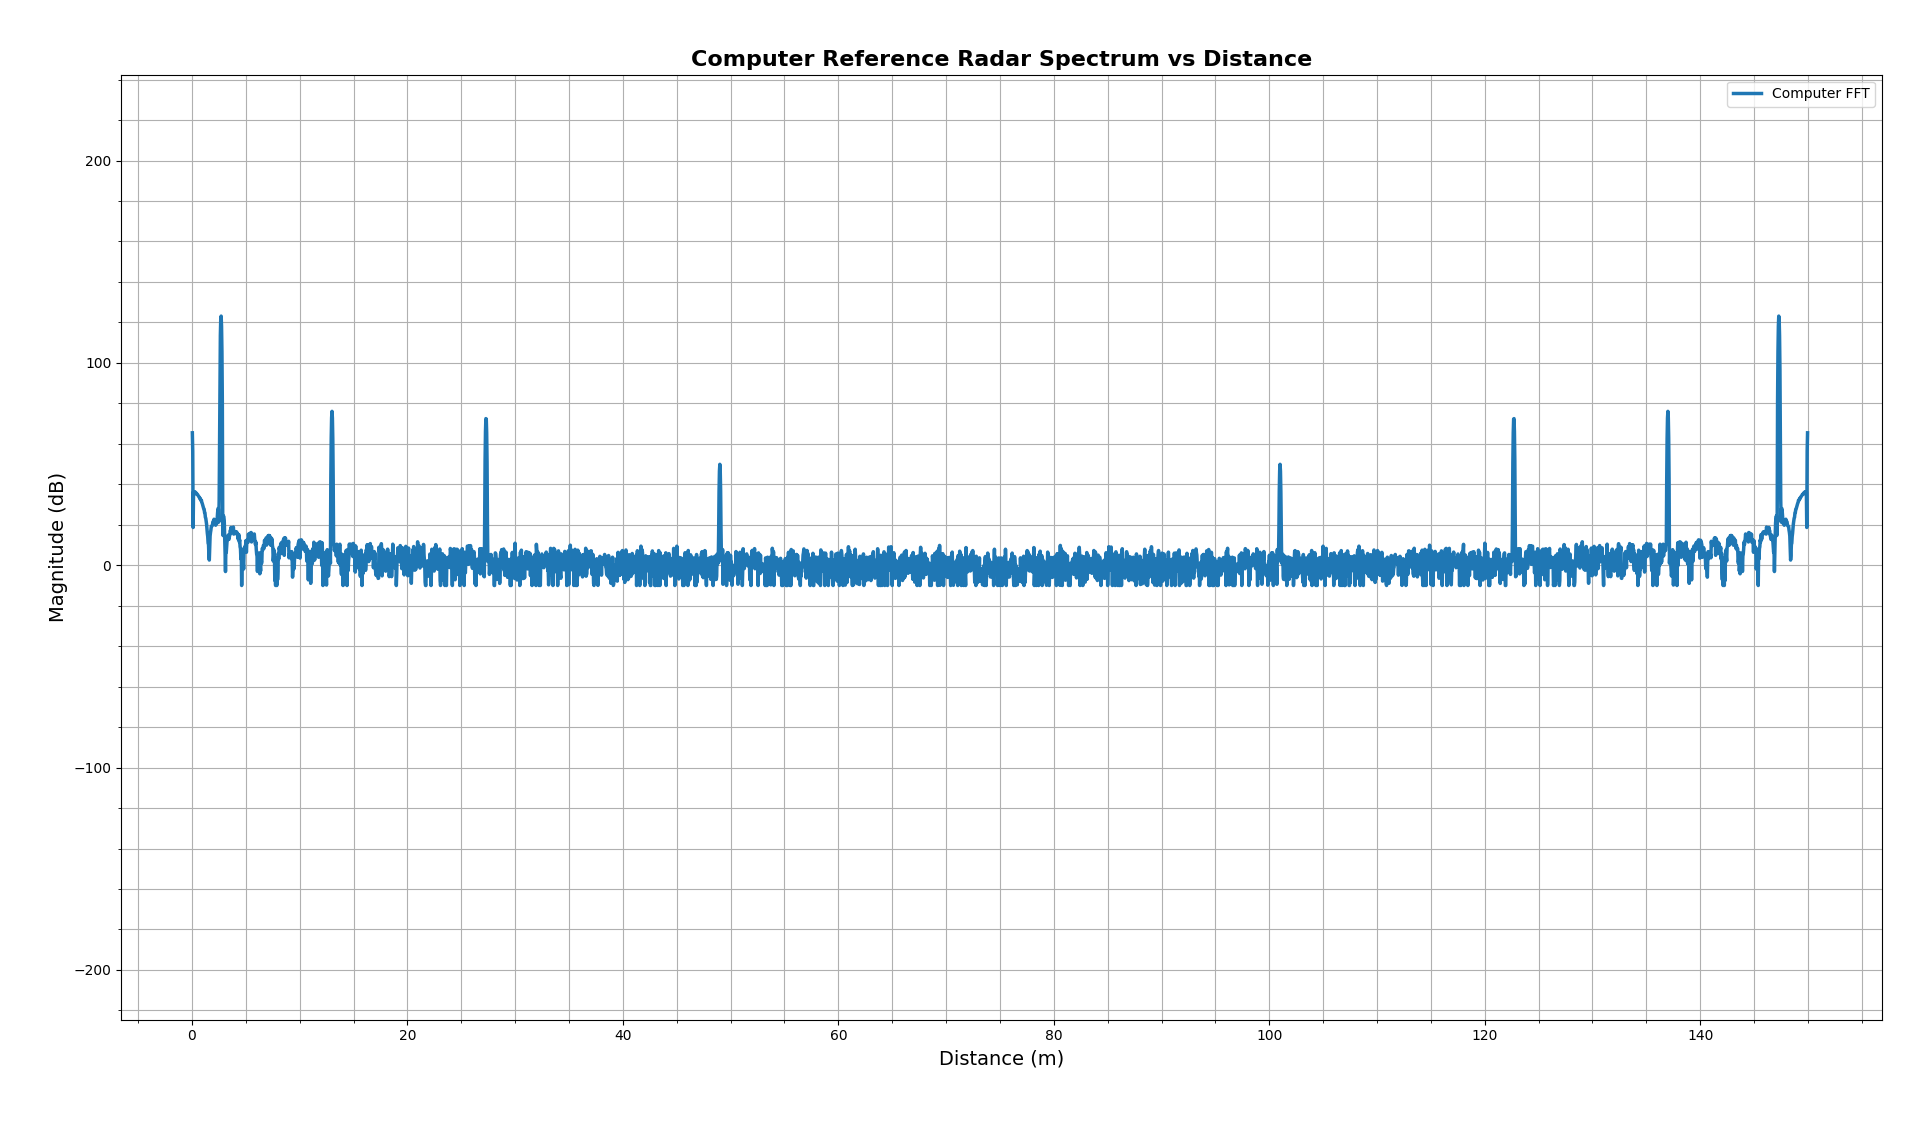
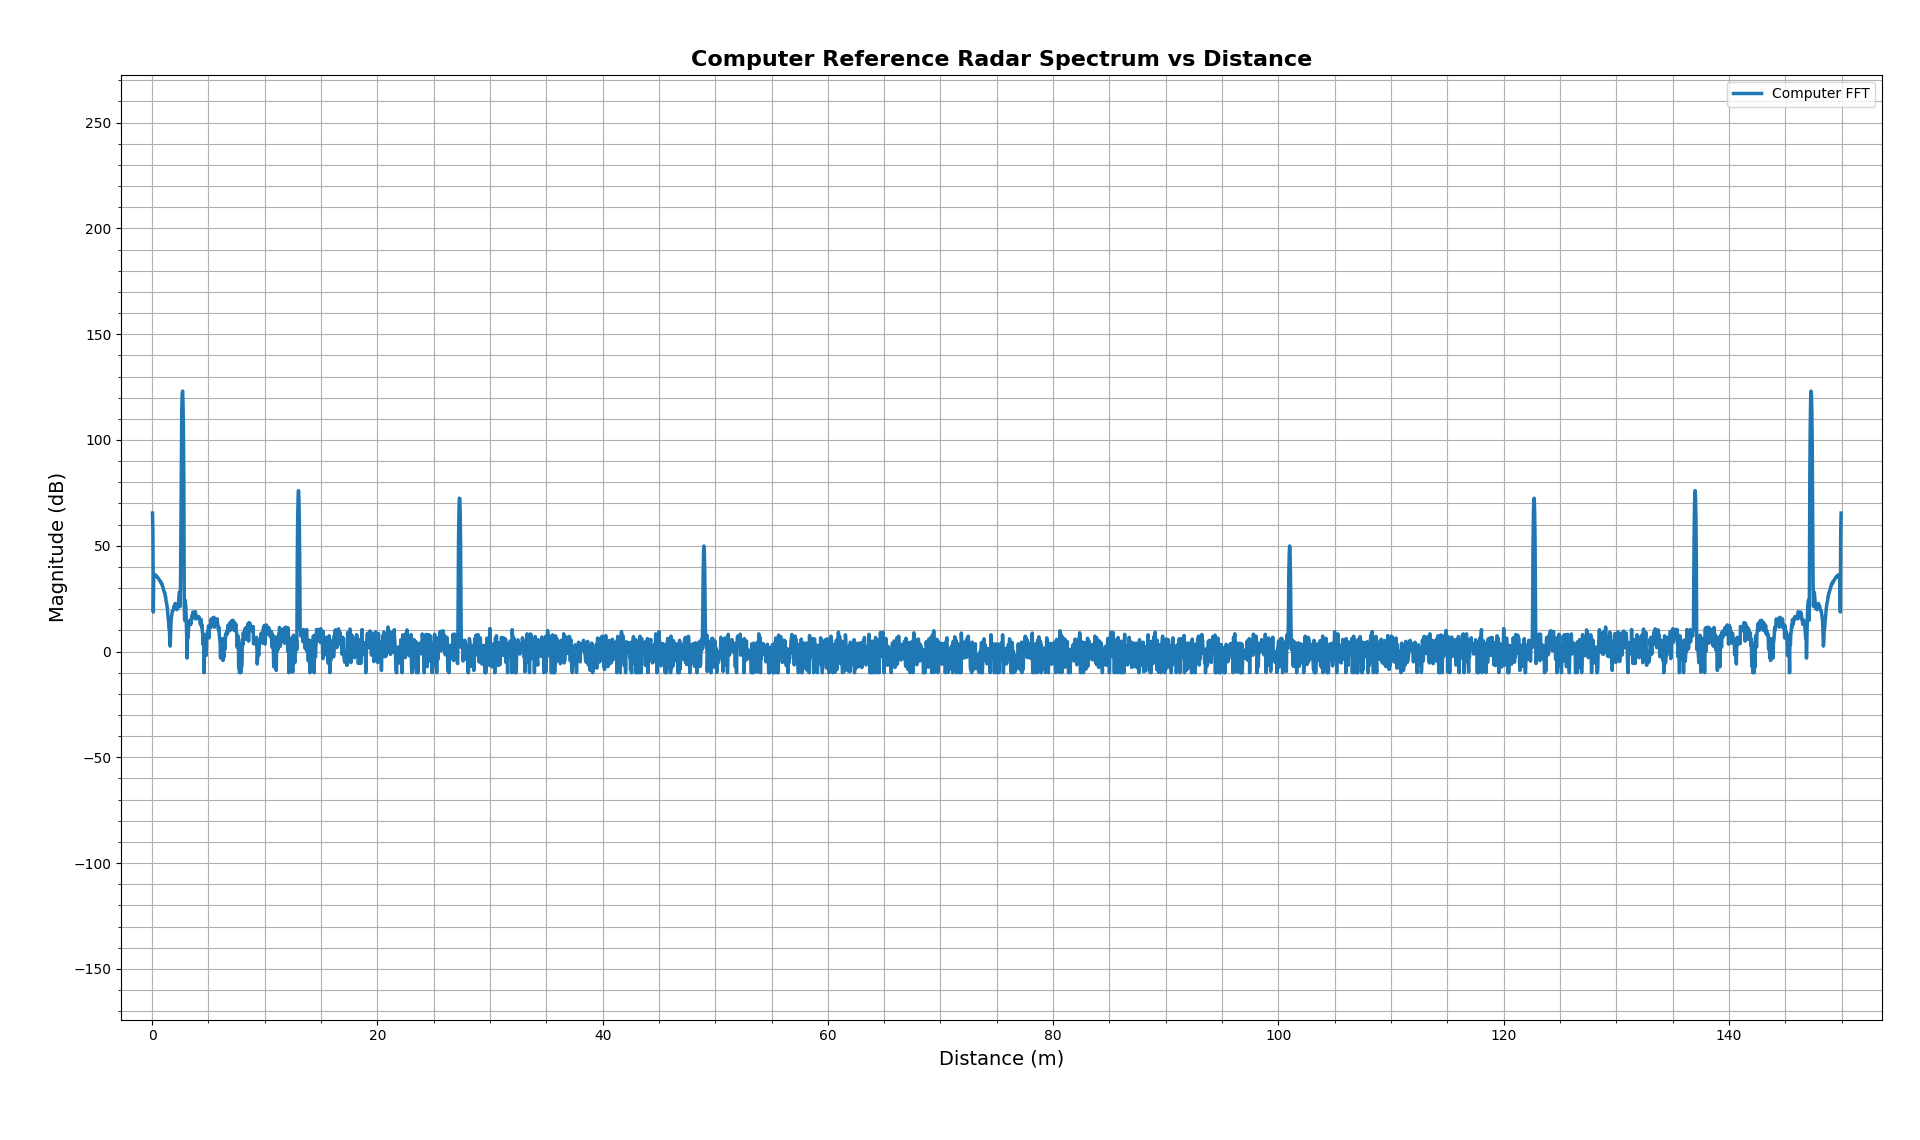
Added detailed README file and the simulated FMCW radar model

Changed region(s): [[0.0312, 0.0921, 0.9688, 0.9211]]

diff --git a/simulated-FMCW-pipeline/FMCW radar data/Main_Run.m b/simulated-FMCW-pipeline/FMCW radar data/Main_Run.m
@@ -1,0 +1,135 @@
+
+format long
+clear; clc;
+pkg load signal
+
+#######################################
+#######################################
+#######################################
+## Main File FMCW Radar Simulation ##
+## Johan Holmstedt ##
+
+#######################################
+## Sampling Rate ##
+
+sampling_rate = 1e-12;
+
+#######################################
+## Declare Radar Simulation Parameters ##
+
+speed_of_light = 3e8;
+
+freq_start = 77*1e9;
+freq_end = 81*1e9;
+time_chirp = 20*1e-6;
+chirp_coeff = (freq_end - freq_start)/time_chirp;
+
+freq_lo = freq_start;
+lambda = speed_of_light/(0.5*(freq_end+freq_start));
+
+Antenna_Gain = 3;
+If_Amplifier_Gain = 700;
+ADC_sampling_Freq = 2*1e8;
+ADC_Bits = 12;
+
+ADC_Qn = 1;          ## Optional, ADD quantization noise if set to 1
+Bits_out_True = 0;   ## Optional, generate output in bit format if set to 1
+
+range_max = 50;
+range_min = 1;
+time_delay_max = 2*range_max/speed_of_light;
+time_delay_min = 2*range_min/speed_of_light;
+freq_delay_max = chirp_coeff*time_delay_max;
+freq_delay_min = chirp_coeff*time_delay_min;
+
+## Target and radar cross section
+target_range = [2.7 13 27.3 49];
+target_RCS = [10 0.1 1 0.05];
+
+#######################################
+## Time Grid ##
+
+t = 0:sampling_rate:(time_chirp-sampling_rate);
+
+#######################################
+## Run Simulation Model ##
+
+chirp_signal = Chirp_Gen(t, freq_lo, chirp_coeff, time_chirp);
+
+received_chirp_signal = zeros(1, length(t));
+for m = 1:length(target_range)
+  received_chirp_signal = received_chirp_signal + channel_propagation_model(speed_of_light, lambda, sampling_rate, Antenna_Gain, chirp_signal, target_range(m), target_RCS(m));
+end
+
+mixer_signal = mixer(chirp_signal, received_chirp_signal);
+If_signal = If_Amp_LowPass_Filter(sampling_rate, mixer_signal, If_Amplifier_Gain);
+
+#######################################
+## ADC with optional quantization noise ##
+
+Down_sample_factor = 1/(sampling_rate*ADC_sampling_Freq);
+ADC = downsample(If_signal, Down_sample_factor);
+ADC = ADC - mean(ADC);
+
+## Add quantization noise
+if (ADC_Qn == 1)
+  ADC_Delta = 2/(2^ADC_Bits);
+  ADC = round(ADC/ADC_Delta);
+end
+
+#######################################
+## Apply Window
+
+Win = blackmanharris(length(ADC));
+ADC_win = ADC.*transpose(Win);
+ADC_win = ADC_win - mean(ADC_win);
+
+#######################################
+## FFT
+
+FFT_signal = fft(ADC_win);
+FFT_freq = ADC_sampling_Freq*(1/length(FFT_signal))*(0:1:length(FFT_signal)-1);
+Freq_to_dist = (0.5*speed_of_light/chirp_coeff)*FFT_freq;
+
+#######################################
+## PLOT
+
+figure('Color','w');
+plot(Freq_to_dist(2:end), 20*log10(FFT_signal(2:end)), 'k', 'LineWidth', 2);   % black thick line
+title('Radar Spectrum vs Distance', 'FontSize', 16, 'FontWeight', 'bold');
+xlabel('Distance (m)', 'FontSize', 14);
+ylabel('Power (dB/Bin)', 'FontSize', 14);
+set(gca, 'FontSize', 14, 'LineWidth', 1.2, 'Box', 'on');     % clean axis box
+grid on;
+grid minor;
+xlim([1, 50]);
+ylim([-10, 130]);
+
+#######################################
+## Output Binary data in binary form from ADC, Optional!
+
+if(Bits_out_True == 1)
+
+  ADC = ADC + (1/2)*(2^ADC_Bits);
+
+  Bits_Out = zeros(length(ADC), ADC_Bits);
+
+  for i = 1:length(ADC)
+
+    temp = ADC(i);
+    for n = 1:ADC_Bits
+
+      if(temp >= (2^(ADC_Bits-n)))
+        temp = temp - 2^(ADC_Bits-n);
+        Bits_Out(i, n) = 1;
+
+      end
+    endfor
+
+  endfor
+
+end
+
+#######################################
+## END ##
+

diff --git a/simulated-FMCW-pipeline/FMCW radar data/channel_propagation_model.m b/simulated-FMCW-pipeline/FMCW radar data/channel_propagation_model.m
@@ -1,0 +1,22 @@
+
+#######################################
+#######################################
+#######################################
+## Calculate the received power at the radar based on the radar equation ##
+## Johan Holmstedt ##
+
+#######################################
+## Apply Propagation Model ##
+
+function received_Voltage = channel_propagation_model(speed_of_light, lambda, sampling_rate, Antenna_Gain, transmitted_Voltage, target_range, target_RCS)
+
+    time_delay = 2*target_range/speed_of_light;
+    shift_number = round(time_delay/sampling_rate);
+    received_Voltage = zeros(1,length(transmitted_Voltage));
+    Amp = sqrt((target_RCS*lambda*lambda*Antenna_Gain*Antenna_Gain)/(4*(pi^3)*(target_range^4)));
+    received_Voltage(shift_number:end) = Amp*transmitted_Voltage(1:(end - (shift_number - 1)));
+    %received_Voltage(1:(shift_number - 1)) = zeros(1,length(received_Voltage(1:(shift_number - 1))));
+end
+
+#######################################
+## END ##

diff --git a/simulated-FMCW-pipeline/FMCW radar data/If_Amp_LowPass_Filter.m b/simulated-FMCW-pipeline/FMCW radar data/If_Amp_LowPass_Filter.m
@@ -1,0 +1,24 @@
+
+#######################################
+#######################################
+#######################################
+## Intermediate Frequency (IF) Amplifier and Low Pass Filter ##
+## Johan Holmstedt ##
+
+#######################################
+## Apply Amplifier and Filter ##
+
+function If_signal = If_Amp_LowPass_Filter(sampling_rate, mixer_signal, If_Amplifier_Gain)
+
+    order = 2;
+    cutoff_freq = 160*1e6;
+    sampling_freq = 1/sampling_rate;
+    normalized_cutoff = cutoff_freq / (sampling_freq / 2);
+    [b, a] = butter(order, normalized_cutoff, 'low');
+    If_signal = filter(b, a, mixer_signal);
+    If_signal = If_Amplifier_Gain*If_signal;
+
+end
+
+#######################################
+## END ##

diff --git a/simulated-FMCW-pipeline/FMCW radar data/blackmanharris.m b/simulated-FMCW-pipeline/FMCW radar data/blackmanharris.m
@@ -1,0 +1,21 @@
+
+#######################################
+#######################################
+#######################################
+## Generate the Blackman-Harris window coefficients of length n ##
+## Johan Holmstedt ##
+
+#######################################
+## Apply Window ##
+
+function w = blackmanharris(n)
+
+    a0 = 0.35875;
+    a1 = 0.48829;
+    a2 = 0.14128;
+    a3 = 0.01168;
+    w = a0 - a1*cos(2*pi*(0:n-1)'/(n-1)) + a2*cos(4*pi*(0:n-1)'/(n-1)) - a3*cos(6*pi*(0:n-1)'/(n-1));
+end
+
+#######################################
+## END ##

diff --git a/simulated-FMCW-pipeline/FMCW radar data/Chirp_Gen.m b/simulated-FMCW-pipeline/FMCW radar data/Chirp_Gen.m
@@ -1,0 +1,18 @@
+
+#######################################
+#######################################
+#######################################
+## Generate the LO chirp signal ##
+## Johan Holmstedt ##
+
+#######################################
+## Generate Chirp ##
+
+function chrip = Chirp_Gen(t, freq_lo, chirp_coeff, chirp_duration)
+
+    phase = 2*pi*(freq_lo*t + 0.5*chirp_coeff*t.^2);
+    chrip = sin(phase);
+end
+
+#######################################
+## END ##

diff --git a/simulated-FMCW-pipeline/FMCW radar data/mixer.m b/simulated-FMCW-pipeline/FMCW radar data/mixer.m
@@ -1,0 +1,18 @@
+
+#######################################
+#######################################
+#######################################
+## Mixing Received and Transmit Signals ##
+## Johan Holmstedt ##
+
+#######################################
+## Apply Mixer ##
+
+function mixer_signal = mixer(chirp_signal, received_chirp_signal)
+
+    mixer_signal = chirp_signal.*received_chirp_signal;
+
+end
+
+#######################################
+## END ##

diff --git a/simulated-FMCW-pipeline/README.md b/simulated-FMCW-pipeline/README.md
@@ -1,0 +1,90 @@
+# Simulated FMCW Radar Signal Processing Pipeline on Zynq FPGA
+
+This project implements a custom FPGA based signal processing pipeline for simulated FMCW radar data. The main component is a hand written 4096-point radix-2 SDF FFT accelerator written in Verilog and integrated with the Zynq Processing System through an AXI4-Lite interface. The project uses a simple model of a FMCW radar generated by my supervisor, Johan Holmstedt, in a room with three objects (corresponding to the three peaks shown in the graphs below):
+
+![FFT generated by the FPGA](images/fpga_fft.png)
+
+![Reference FFT generated by NumPy](images/computer_fft.png)
+
+![FPGA FFT vs NumPy FFt. The peaks line up exactly, while small differences in the noise get blown up due to the logarithmic scale](images/fpga_vs_computer.png)
+
+
+The project began as a 32 point FFT pipeline, was expanded to 128 points to verify that the stage modules were properly parameterized, and was then scaled to 4096 points for simulated FMCW radar range processing.
+
+This repository contains the cleaned up public version of a project developed locally as part of my undergraduate research work at Lund University EIT.
+
+---
+
+## Overview
+
+The full system sends simulated radar samples from a computer to the FPGA, computes a 4096 point FFT in programmable logic, returns the result, and compares it against a software FFT reference. The FFT module is scaled by 1/16 to prevent overflow.
+
+The full pipeline is structured as the following:
+
+CSV / Python radar samples
+->        
+UART
+->         
+Zynq Processing System
+->         
+AXI4-Lite
+->         
+BRAM backed input/output buffer
+->         
+4096-point SDF FFT pipeline
+->         
+BRAM backed input/output buffer
+->         
+AXI4-Lite
+->         
+Zynq Processing System
+->         
+UART
+->         
+Python / NumPy verification and plotting
+
+
+## Features
+
+*Custom radix-2 SDF FFT written from scratch in Verilog
+*4096 point FFT pipeline
+*Parameterized FFT stage modules
+*24 bit signed fixed-point internal data path
+*16 bit signed twiddle factors
+*BRAM based delay lines and input/output buffering
+*AXI4-Lite interface between PS and PL
+*UART based communication between PC and Zynq PS
+*Python verification against NumPy FFT
+*Simulated FMCW radar range spectrum plotting
+*Bit reversed output correction in Python
+*dB-scale radar spectrum visualization
+
+## Hardware and Tools
+
+*FPGA platform:   Zynq-7000 SoC
+*Board used: 	  Zybo Z7
+*HDL:             Verilog
+*FPGA tools:      Vivado
+*PS software:     Vitis/C
+*Host software:   Python/NumPy/Matplotlib
+*Communication:   UART
+*PS/PL interface: AXI4-Lite
+
+## Architecture
+
+PL: The FFT is implemented as a radix-2 single-path delay feedback pipeline. The FFT output is produced in bit-reversed order. The Python verification script reorders the bins into natural order before comparing the FPGA output against the NumPy reference.
+
+The AXI4-Lite slave exposes the following registers:
+
+0x00 COUNTER   Debug counter
+0x04 STATUS    bit 0 = input ready, bit 1 = output valid
+0x08 IN_IMAG   Input imaginary component, lower 24 bits
+0x0C IN_REAL   Input real component, lower 24 bits
+0x10 OUT_IMAG  Output imaginary component, lower 24 bits
+0x14 OUT_REAL  Output real component, lower 24 bits
+
+PS: The PS receives the data through UART from the Python program and packs each byte into a sample. It feeds 4096 samples to the AXI slave. When the FFT presents an output through the AXI slave, it receives it and breaks it up into bytes to send back over UART.
+
+## Python
+
+The python program sends samples precomputed from a CSV file over UART to the PS. It receives the output of the FFT in bit reversed order from the PS over UART and plots it in natural order. The program also plots a FFT computed locally through NumPy and compares it to the FPGA output. Note that there are slight differences in the NumPy FFT and FPGA FFT due to differences in fixed point representation of the data on FPGA and Python. These small differences blow up on a logarithmic scale, though the three peaks representing three objects in the room line up exactly on both graphs. 
